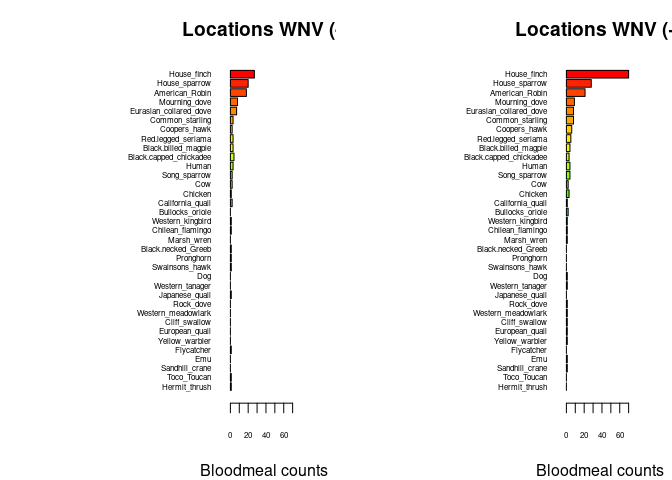
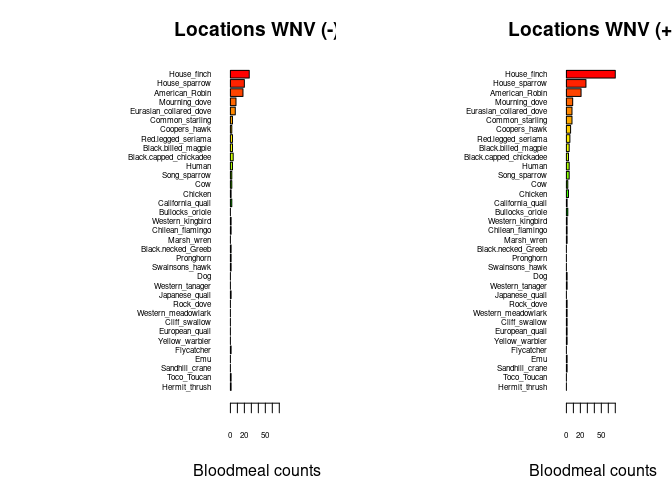
Warm-up Mini-Repor - Final

diff --git a/Warm-up-mosquitoes-Bowler.md b/Warm-up-mosquitoes-Bowler.md
@@ -1,7 +1,7 @@
 Warm-up mini-Report: Mosquito Blood Hosts in Salt Lake City, Utah
 ================
 Paige Bowler
-2025-10-09
+2025-10-11
 
 - [ABSTRACT](#abstract)
 - [BACKGROUND](#background)
@@ -9,24 +9,46 @@ Paige Bowler
   - [Questions](#questions)
   - [Hypothesis](#hypothesis)
   - [Prediction](#prediction)
-- [Methods](#methods)
-  - [Fill in 2nd analysis/plot e.g. generalized linear
-    model](#fill-in-2nd-analysisplot-eg-generalized-linear-model)
+- [METHODS](#methods)
+  - [Analysis \#1 - Barplot of Bloodmeals by
+    Species](#analysis-1---barplot-of-bloodmeals-by-species)
+  - [Analysis \#2 - Generalized Linear
+    Model](#analysis-2---generalized-linear-model)
 - [DISCUSSION](#discussion)
-  - [Interpretation of 1st analysis
-    (e.g. barplots)](#interpretation-of-1st-analysis-eg-barplots)
-  - [Interpretation of 2nd analysis (e.g. generalized linear
-    model)](#interpretation-of-2nd-analysis-eg-generalized-linear-model)
-  - [Optional interpretation of 3rd analysis
-    (e.g. heatmaps)](#optional-interpretation-of-3rd-analysis-eg-heatmaps)
+  - [Interpretation of 1st analysis](#interpretation-of-1st-analysis)
+  - [Interpretation of 2nd analysis](#interpretation-of-2nd-analysis)
 - [CONCLUSION](#conclusion)
 - [REFERENCES](#references)
 
 # ABSTRACT
 
-\[insert abstract here\]
+    West Nile Virus (WNV) is commonly transmitted to humans and other
+mammals by mosquitoes, who pick it up when they feed on infected birds.
+Understanding which species of birds amplify WNV the most may be
+incredibly helpful in tracking and controlling the spread of the virus.
+This report investigates the relationship between house finch bloodmeals
+and the prevalence of WNV at multiple sites within Salt Lake City using
+multiple methods of analysis. Ultimately, it was determined that there
+is a positive relationship between the number of house finch bloodmeals
+and whether or not a site was WNV+.
 
 # BACKGROUND
+
+   Mosquitos pick up West Nile Virus (WNV) when they feed on infected
+birds, which they then transmit to humans and other mammals. Bloodfed
+mosquitos can be collected and DNA extracted. The resultant DNA extract
+contains both the mosquito and its meal’s DNA- the latter of which can
+be isolated and replicated through PCR by using vertebrate-specific
+primers, sequenced, and used to assemble a profile of potential hosts
+and amplifiers of WNV.  
+    The length of time that WMV viremia remains detectible (and thus
+transmissible) varies from species to species of bird (Komar et
+al. 2003). Birds that maintain viremia in their blood for longer may be
+responsible for more WNV+ mosquitos, and ultimately cause a greater
+number of mammal infections. House finches maintain detectible viremia
+for a notably lengthy duration. This, coupled with their prevalence in
+more densely populated areas, like Salt Lake, may make them a
+significant vector for the amplification of the spread of WNV.
 
 ``` r
 # Manually transcribe duration (mean, lo, hi) from the last table column
@@ -70,33 +92,35 @@ arrows(duration$lo, bp, duration$hi, bp,
 
 ## Questions
 
-Fill in here… state the main research question (e.g., Which bird species
-acts as an amplifying host of WNV in Salt Lake City?)
+What bird species significantly amplifies the spread of WNV in Salt Lake
+City?
 
 ## Hypothesis
 
-Fill in here… write your hypothesis clearly (e.g., House finches are
-acting as important amplifying hosts of WNV in Salt Lake City).
+House finches are key to spread of WNV.
 
 ## Prediction
 
-Fill in here… Turn the hypothesis into a testable prediction (e.g.,
-Locations with mosquito blood meals from house finches will also have
-higher numbers of WNV-positive mosquito pools).
+House finch bloodmeals will be positively correlated with the frequency
+of WNV+ mosquito pools.
 
-# Methods
+# METHODS
 
-Fill in here… Summarize the procedures and analyses you use in this
-report. In this section, describe what you did and why. Don’t just
-restate the code — explain the logic of each analysis in plain language.
-Keep each subsection short (2–4 sentences).
+   Bar plots were generated to display the number of bloodmeals per
+species for WNV+ and WNV- areas. This allows for the visualization of
+patterns and differences between WNV+/- locations.  
+   Additionally, two generalized linear models were run to investigate
+the relationship between house finch bloodmeals and both WMV+ pools and
+positivity rates. These models provide a more in-depth, quantitative
+breakdown of data than bar plots can provide, and can determine if the
+relationships the plots show are statistically significant.
 
-\##Bloodmeals by Species \[Fill in 1st analysis e.g. barplots\]
+## Analysis \#1 - Barplot of Bloodmeals by Species
 
-Fill in here… Explain that you compared the number of mosquito blood
-meals from each host species between sites with no WNV-positive pools
-and sites with one or more WNV-positive pools. Describe why a barplot
-helps visualize this comparison.
+   Number of bloodmeals taken per host species from locations where no
+WNV+ pools (-) and sites with 1+ WNV+ pools (+). These bar plots provide
+visual representation of the data, making differences in number of
+feedings per species between WNV+ and WNV- sites easier to see.
 
 ``` r
 ## import counts_matrix: data.frame with column 'loc_positives' (0/1) and host columns 'host_*'
@@ -157,7 +181,7 @@ xlim_use <- c(0, xmax * 1.08)
 
 ## 8) Plot: two horizontal barplots with identical order and colors
 op <- par(mfrow = c(1, 2),
-          mar = c(4, 12, 3, 2),  # big left margin for species names
+          mar = c(4, 12, 3,2.75),# big left margin for species names
           xaxs = "i")           # a bit tighter axis padding
 
 ## Panel A: No WNV detected (loc_positives = 0)
@@ -194,13 +218,14 @@ par(op)
 host_species_colors <- species_colors
 ```
 
-## Fill in 2nd analysis/plot e.g. generalized linear model
+## Analysis \#2 - Generalized Linear Model
 
-Fill in here… Explain that you tested whether the presence or number of
-house finch blood meals predicts whether a site had WNV-positive pools
-(binary) or a higher WNV positivity rate (numeric). Mention that this
-statistical test lets you formally evaluate the relationship suggested
-by the barplots.
+    This analysis uses two generalized linear models to determine the
+relationship between finch bloodmeals and the presence of WNV+ pools
+using binary data, and between finch bloodmeals and and WNV positivity
+rate using numeric data, as well as the statistical significance of
+both. The data from this analysis may support the patterns shown in
+analysis \#1.
 
 ``` r
 # second-analysis-or-plot, glm with house finch alone against binary +/_
@@ -259,35 +284,40 @@ summary(glm2)
 
 # DISCUSSION
 
-Fill in here… For each analysis, summarize what you found and interpret
-the results. Say whether they support or contradict your hypothesis.
+  The barplot in analysis \#1 indicates that the number of house finch
+blood meals is noticeably greater in WNV+ sites than WNV- sites.  
+   Analysis \#2 supports the results of analysis \#1, with a
+statistically significant positive correlation between the number of
+house finch bloodmeals and the WNV positivity of a site. It also shows
+that there is a very small, but very significant positive correlation
+between the number of house finch blood meals at a site and its degree
+of WNV positivity.
 
-## Interpretation of 1st analysis (e.g. barplots)
+## Interpretation of 1st analysis
 
-The first analysis… fill in here what it was, the summary of the
-results, and your interpretation.
+    Analysis \#1 looked at the number of bloodmeals per host species in
+WNV+ sites and WNV- sites. It showed that ~30 more house finch
+bloodmeals occured at positive sites than negative, though it cannot be
+determined that there is a significant difference between the two by bar
+plot alone.
 
-## Interpretation of 2nd analysis (e.g. generalized linear model)
+## Interpretation of 2nd analysis
 
-The second analysis… fill in here what it was, the summary of the
-results, and your interpretation.
-
-## Optional interpretation of 3rd analysis (e.g. heatmaps)
-
-The third analysis… fill in here what it was, the summary of the
-results, and your interpretation.
+   Analysis \#2 showed a positive correlation (0.3468) between number of
+house finch bloodmeals and whether or not a site was WNV positive or
+negative. This relationship is statistically significant (p = 0.0287),
+and supports the the pattern observed in analysis \#1. Analysis \#2 also
+showed a small, but positive positive correlation (0.027479.) between
+number of house finch bloodmeals and the degree of WNV positivity of a
+site. Though small, this relationship is incredibly significant (p =
+4.54e-05).
 
 # CONCLUSION
 
-Fill in here… State the overall answer to your research question, based
-on all analyses. Mention whether the evidence supports your hypothesis
-and what it suggests about WNV amplification in Salt Lake City.
+    Based on the analyses run, it can be determined that house finches
+are heavily responsible for the amplification of WNV in Salt Lake City.
 
 # REFERENCES
-
-Fill in here… List all sources you cited in your background and
-throughout the report. Use a consistent style.a conclusion you can draw
-from your analysis.
 
 1.  Komar N, Langevin S, Hinten S, Nemeth N, Edwards E, Hettler D, Davis
     B, Bowen R, Bunning M. Experimental infection of North American
@@ -295,4 +325,4 @@ from your analysis.
     Dis. 2003 Mar;9(3):311-22. <https://doi.org/10.3201/eid0903.020628>
 
 2.  ChatGPT. OpenAI, version Jan 2025. Used as a reference for functions
-    such as plot() and to correct syntax errors. Accessed 2025-10-09.
+    such as plot() and to correct syntax errors. Accessed 2025-10-11.
